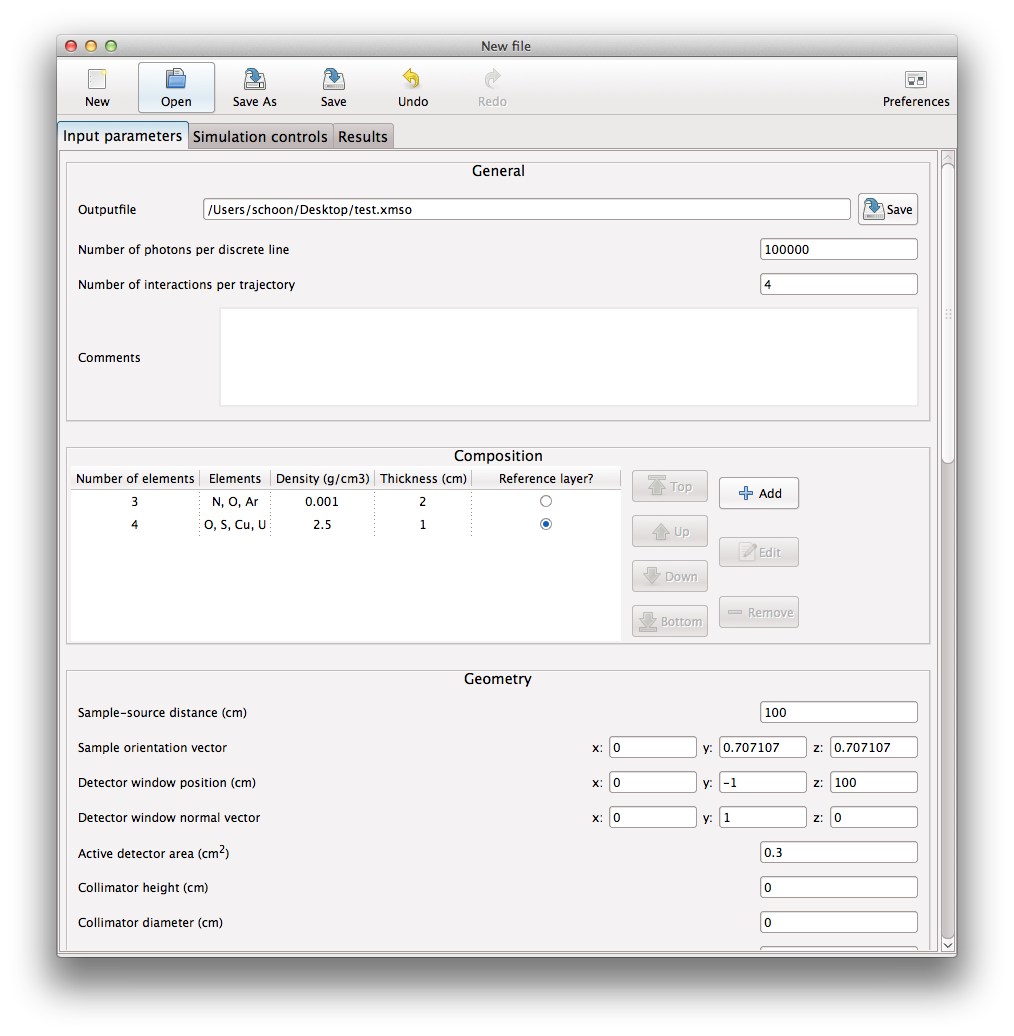
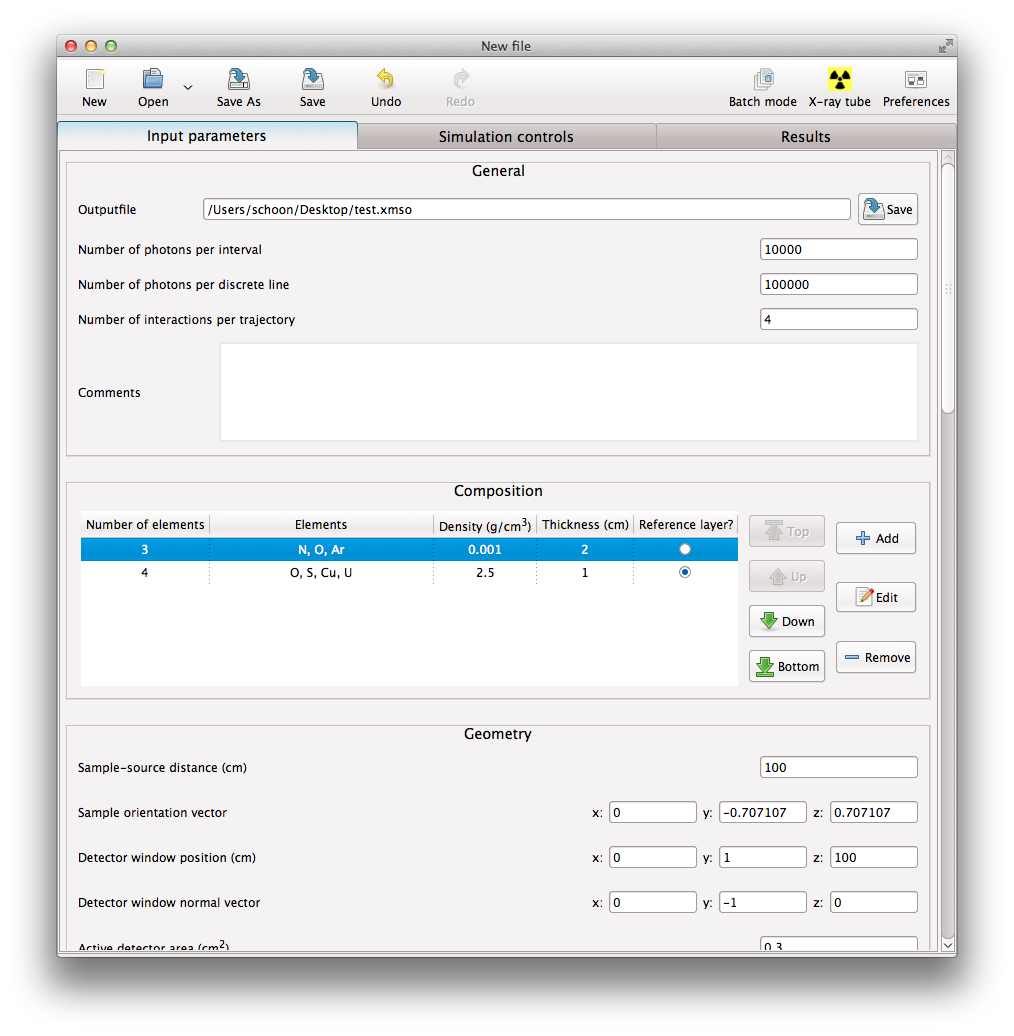
Updating XMI-MSIM manual
todo: batch simulations

diff --git a/xmimsim-manual.tex b/xmimsim-manual.tex
@@ -1,16 +1,16 @@
 \documentclass[11pt,a4paper,oneside,titlepage]{article}
 
 \usepackage[space]{grffile}
-\usepackage[utf8]{inputenc}
+\usepackage[utf8x]{inputenc}
 \usepackage{graphicx}
-
+\usepackage{listings}
 \usepackage{xspace}
 
 
 \usepackage[a4paper,plainpages=false]{hyperref}
 \setlength{\parindent}{0cm}
 
-\title{XMI-MSIM: the definitive manual\\\small{Version 2.0}}
+\title{XMI-MSIM: the definitive manual\\\small{Version 3.0}}
 \author{Tom Schoonjans\\Universit\`a degli Studi di Sassari}
 \begin{document}
 
@@ -32,9 +32,9 @@
 \vspace{1.5cm}
 \huge{\bfseries{The definitive manual\\}}
 \vspace{1.5cm}
-\Large{Version 2.0\\}
+\Large{Version 3.0\\}
 \vspace{1.5cm}
-\textsc{\large{By Tom Schoonjans, PhD\\}}
+\textsc{\large{Tom Schoonjans\\}}
 \vfill
 {\large \today}
 \end{center}

diff --git a/User-guide.md b/User-guide.md
@@ -8,6 +8,7 @@ The following guide assumes that the user has already installed XMI-MSIM, accord
 * **[Starting a simulation](#start)**
 * **[Visualizing the results](#results)**
 * **[Global preferences](#preferences)**
+* **[Advanced features](#advancedfeatures)**
 * **[Checking for updates](#checkforupdates)**
 * **[Example files](#examplefiles)**
 
@@ -19,7 +20,7 @@ For Mac users: assuming you dragged the app into the Applications folder, use Fi
 
 For Windows users: an entry should have been added to the Start menu. Navigate towards it in _Programs_ and click on XMI-MSIM.
 
-For Linux users: an entry should have been added to the Education section of your Start menu. Since this may very considerably depending on the Linux flavour that is being used, this may not be obvious at first. Alternatively, fire up a terminal and type:
+For Linux users: an entry should have been added to the Education section of your Start menu. Since this may very considerably depending on the Linux flavor that is being used, this may not be obvious at first. Alternatively, fire up a terminal and type:
 
 > `xmimsim-gui`
 
@@ -27,7 +28,7 @@ Your desktop should now be embellished with a window resembling the one in the f
 
 ![XMI-MSIM on startup](../wiki/figures/01start-window.png)
 
-XMI-MSIM may also be started on most platforms by double clicking XMI-MSIM input-files and output-files in your platform's file manager, thereby loading the file's contents.
+XMI-MSIM may also be started on most platforms by double clicking XMI-MSIM input-files (.xmsi extension) and output-files (.xmso extenstion) in your platform's file manager, thereby loading the file's contents.
 
 The main view of the XMI-MSIM consists of three pages that each serve a well-defined purpose. The first page is used to generate inputfiles, based on a number of parameters that are defined by the user. The second page allows for the execution of these files, while the third and last page is designed to visualise the results and help in their interpretation. The purpose of the following sections is to provide an in-depth guide on how to operate these pages. 
 
@@ -44,13 +45,15 @@ The first page consists of a number of frames, each designed to manipulate a par
 * [Excitation](#excitation)
 * [Beam and detection absorbers](#absorbers)
 * [Detector settings](#detector)
+* [Import from file](#import)
 
 ### <a id="general"></a>General
 
 The _General_ section contains 4 parameters:
 
 * Outputfile: clicking the _Save_ button will pop up a file chooser dialog, allowing you to select the name of the outputfile that will contain the results of the simulation
-* Number of photons per discrete line: the excitation spectrum as it is used by the simulation is assumed to consist of a number of discrete energies with each a given intensity (see [Excitation](#excitation) for more information). This parameter will determine how many photons are to be simulated per discrete line. The calculation time is directly proportional to this value
+* Number of photons per discrete line: the excitation spectrum as it is used by the simulation may consist of a number of discrete energies with each a given intensity (see [Excitation](#excitation) for more information). This parameter will determine how many photons are to be simulated per discrete line. The calculation time is directly proportional to this value
+* Number of photons per interval: the excitation spectrum as it is used by the simulation may consist of a number of energy intervals defined by the given intensity densities at the beginning and the end of the intervals (see [Excitation](#excitation) for more information). This parameter will determine how many photons are to be simulated per interval. The calculation time is directly proportional to this value
 * Number of interactions per trajectory: this parameter will determine the maximum number of interactions a photon can experience during its trajectory. It is not recommended to set this value to higher than 4, since the contribution of increasingly higher order interactions to the spectrum decreases fast. The calculation time is directly proportional to this value
 * Comments: use this textbox to write down some notes you think are useful.
 
@@ -64,7 +67,7 @@ The different elements that make up the layer are added by clicking on the _Add_
 
 ![Adding a compound](../wiki/figures/04enter-compound.png)
 
-You may wonder at exactly which chemical formulas are accepted by the interface. Well the answer is: anything that is accepted by _xraylib_'s [CompoundParser](https://github.com/tschoonj/xraylib/wiki/The-xraylib-API:-list-of-all-functions#wiki-compound_parser) function. This includes formulas with (nested) brackets such as: `Ca10(PO4)3OH` (apatite). Invalid formulas will lead to the _Ok_ button being greyed out and the _Compound_ text box gaining a red background.
+You may wonder at exactly which chemical formulas are accepted by the interface. Well the answer is: anything that is accepted by _xraylib_'s [CompoundParser](https://github.com/tschoonj/xraylib/wiki/The-xraylib-API-list-of-all-functions#wiki-compoundparser) function. This includes formulas with (nested) brackets such as: `Ca10(PO4)3OH` (apatite). Invalid formulas will lead to the _Ok_ button being greyed out and the _Compound_ text box gaining a red background.
 
 After clicking ok, you should see something resembling the following screenshot:
 
@@ -74,6 +77,8 @@ You will notice that the compound has been parsed and separated into its constit
 In this example I added an additional 50 % of `U3O8` to the composition and picked the values 2.5 g/cm3 and 1 cm for density and thickness, respectively, leading to a weights sum of 100 %. It is considered good practice to have the weights sum equal to 100 %. This can be accomplished by either adding/editing/removing compounds and elements from the list, or by clicking the _Normalize_ button, which will scale **all** weight fractions in order to have their sum equal to 100 %. Your dialog should match with this screenshot:
 
 ![Adding another compound](../wiki/figures/06after-second-compound.png)
+
+Alternatively you may consider looking into the builtin catalog (press _Catalog_): a pop-up window will allow you to select a compound from a list which is generated using xraylib's [GetCompoundDataNISTList](https://github.com/tschoonj/xraylib/wiki/The-xraylib-API-list-of-all-functions#wiki-nistcatalog) function, which provides access to NISTs compound database of compositions and densities. 
 
 When satisfied with the layer characteristics, press _Ok_.
 
@@ -106,7 +111,7 @@ Keep in mind that the number of elements influences the computational time great
 
 Scrolling down a little on the _Input parameters_ page reveals the _Geometry_ section as shown in the next screenshot:
 
-![Geometry, excitation and beam absorbers](../wiki/figures/10geometry-excitation-beam-absorbers.png)
+![Geometry, excitation and beam absorbers](../wiki/figures/10geometry-excitation.png)
 
 This sections covers the position and orientation of the system of layers, detector and slits. In order to fully appreciate the geometry parameters, it is important that I first describe the coordinate system that these position coordinates and directions are connected to:
 
@@ -117,9 +122,9 @@ This sections covers the position and orientation of the system of layers, detec
 
 This is demonstrated in the following figure:
 
-![Schematic representation of the geometry](../wiki/figures/coordinate_system.png)
+![Schematic representation of the geometry](../wiki/figures/27coordinatesystem.png)
 
-Now with this covered, let's have a look at the different _Geometry_ parameters:
+Now with this covered, let us have a look at the different _Geometry_ parameters:
 
 * Sample-source distance: the distance between the source and the _Reference layer_ in the system of layers as defined in the [_Composition section_](#composition)
 * Sample orientation vector: the normal vector that determines the orientation of the stack of layers that define the sample and its environment. The _z_ component must be strictly positive
@@ -131,19 +136,35 @@ Now with this covered, let's have a look at the different _Geometry_ parameters:
 * Source-slits distance: XMI-MSIM defines a set of virtual slits, whose purpose is to define the size of the beam at a given point, based on the distance between these slits and the X-ray source, as well as the _Slits size_, defined by the next parameter. I recommend to have the _Source-slits distance_ correspond to the _Sample-source distance_, since this way the beam, upon hitting the _Reference layer_, will have exactly the dimensions specified by _Slits size_ (if using a point source!)
 * Slits size: see previous parameter. Refers to the dimensions of the beam at the _Source-slits_ distance. This parameter will be ignored when dealing with a Gaussian source (see [Excitation section](#excitation))
 
+In order to visualize these different parameters, click the _Show geometry help_ button: a new window will pop up showing the aforementioned coordinate system. Hovering the mouse over the different components in the new window will have the corresponding widgets light up in green in the main window. This works both ways: hover the mouse over the geometry widgets in the main window and little boxes will appear in the coordinate system window.
+
 ### <a id="excitation"></a>Excitation
 
-Next, there is the _Excitation_ section, which is used to define the X-ray beam that irradiates the sample. The corresponding excitation spectrum is assumed to consist of a number of discrete energies, each with a horizontally and vertically polarized intensity, as well as a number of parameters that define the type and the aperture of the source. At runtime, the code will use the [_Number of photons per discrete line_](#general) parameter to determine how many photons will be simulated per discrete energy. Adding, editing and removing discrete energies is handled through the buttons in the _Excitation_ section. For example, we can change the settings of the default value by clicking the _Edit_ button.
+Next, there is the _Excitation_ section, which is used to define the X-ray beam that irradiates the sample.
+The corresponding excitation spectrum may consist of a number of discrete energies, each with a horizontally and vertically polarized intensity, as well as a number of parameters that define the type and the aperture of the source. Furthermore, one can also insert a number of continuous energy intervals, defined through a list of intensity densities, each with their horizontally and vertically polarized components. In this case, one has two insert at least two intensity densities in order to have at least one interval.
+
+At runtime, the code will use the [_Number of photons per discrete line_](#general) and [_Number of photons per interval_](#general) parameters to determine how many photons will be simulated per discrete energy and continuous energy interval. Adding, editing and removing discrete energies and intervals is handled through the buttons in the _Excitation_ section. For example, we can change the settings of the default value by clicking the _Edit_ button.
 The dialog contains the fields necessary to define a particular energy:
 
 * Energy: the energy of this particular part of the excitation spectrum, expressed in keV
 * Horizontally and vertically polarized intensities: the number of photons that are polarized in the horizontal and vertical planes, respectively. A completely unpolarized beam has identical horizontal and vertical intensities (such as those produced by X-ray tubes), while synchrotron beams will have very, very low vertically polarized intensities. For information on how to convert the total number of photons given the degree of polarization to the horizontal and vertical polarized intenties, consult [Part 5 in our series of papers on Monte-Carlo simulations](../wiki/References-and-additional-resources)
-* Source size _x_ and _y_: If both these values are equal to zero, then the source is assumed to be a point source, and the divergence of the beam is completely determined by the _Source-slits distance_ and _Slits size_ parameters of the [_Geometry_](#geometry) section. Otherwise the source is considered a Gaussian source, in which case the photon starting position is chosen according to Gaussian distributions in the _x_ and _y_ planes, determined by the _Source size x_ and _Source size y_ parameters
-* Source divergence _x_ and _y_: If these values are non-zero, AND the source is Gaussian, then the _Source-slits distance_ takes on a new role as it becomes the distance between the actual focus and the source position. In this way a convergent beam can be defined, emitted by a Gaussian source at the origin. For the specific case of focusing on the sample the _Sample-source distance_ should be set to the _Source-slits distance_.
+* Source size _x_ and _y_: if both these values are equal to zero, then the source is assumed to be a point source, and the divergence of the beam is completely determined by the _Source-slits distance_ and _Slits size_ parameters of the [_Geometry_](#geometry) section. Otherwise the source is considered a Gaussian source, in which case the photon starting position is chosen according to Gaussian distributions in the _x_ and _y_ planes, determined by the _Source size x_ and _Source size y_ parameters
+* Source divergence _x_ and _y_: if these values are non-zero, AND the source is Gaussian, then the _Source-slits distance_ takes on a new role as it becomes the distance between the actual focus and the source position. In this way a convergent beam can be defined, emitted by a Gaussian source at the origin. For the specific case of focusing on the sample the _Sample-source distance_ should be set to the _Source-slits distance_.
+* Energy distribution type: additionally for the discrete energies, it is possible to set the _Energy distribution type_, which may assume the values _Monochromatic_, _Gaussian_ and _Lorentzian_. The first case assumes that the discrete energy is purely monochromatic and that only the selected energy will be used in the simulation. The two other cases corrspond to a scenario in which the simulation will sample from a Gaussian or Lorentzian distribution respectively. If either of these two cases is selected, the user is expected to provide respectively the standard deviation and the scale parameter.
 
 In this particular case, I have changed the energy to 20.0 keV, and made the beam unpolarized by equalizing both intensities, as shown in the following screen shot. The source remains a point source.
 
 ![Modifying the energy](../wiki/figures/11modify-energy.png)
+
+The discrete energies and continuous energies widgets each contain six buttons:
+
+* _Add_: add a new discrete energy or continuous energy intensity density.
+* _Edit_: edit a previously defined discrete energy or continuous energy intensity density.
+* _Remove_: delete a previously defined discrete energy or continuous energy intensity density.
+* _Import_: import a list of discrete energies or continuous energy intensity densities from an ASCII file. These files must consist of either two, three or seven columns, with the first column containing the energies, the second the total intensity (if only two columns are found), or the second and third the resp. horizontally and vertically polarized intensities or intensity densities. If seven columns are encountered, the last four columns are assumed to contain source sizes and divergencies. It is possible through the interface to start reading only at a certain linenumber and also to read only a set number of lines.
+* _Clear_: delete all previously defined discrete energies or continuous energy intensity densities.
+* _Scale_: multiply the intensities or intensity densities with a positive real number.
+
 
 ### <a id="absorbers"></a>Beam and detection absorbers
 
@@ -167,6 +188,12 @@ The last section deals with the settings of the detector and its associated elec
 * Max convolution energy: the maximum energy that will be considered when applying the detector response function. Make sure this value is 10-20 % higher than the highest expected energy in the spectrum
 * Crystal composition: the composition of the detector crystal. Adding, editing and removing absorbers is performed through an interface identical to the one seen in the [Composition section](#composition), but without the _Reference layer_ toggle button. Will be used to calculate the detector transmission and the escape peak ratios
 
+### <a id="import"></a>Import from file
+
+In some cases it may be interesting to import part of the contents of other XMI-MSIM input-files or output-files (which also contain the corresponding input-file) into a new input-file. This can be accomplished by using the _File_ &rarr; _Import_ option in the menubar.
+After choosing a file from the dialog, select the components that you would like to import from the interface. This is demonstrated in the following screenshot
+
+![Import from file](../wiki/figures/25importfromfile.png)
 
 ## <a id="save"></a>Saving an input-file
 
@@ -193,7 +220,7 @@ Either way, the _Simulation controls_ page should look as shown in the following
 
 ### <a id="controlpanel"></a>Control panel
 
-The top of the page contains the actual control panel that is used to start, stop and pause the simulation, as well as a slider that allows the user to select the number of threads that will be used by the simulation (currently broken in version 2.0, will be fixed in 2.1). To the right of the slider, there are three progress bars that indicate different stages of the Monte Carlo program: the calculation of the solid angle grid for the variance reduction, the simulation of the photon--matter interactions and the calculation of the escape peak ratios. More information about the status of the Monte Carlo program is presented in the adjacent log window. Note: the Windows version does not contain the _Pause_ button.
+The top of the page contains the actual control panel that is used to start, stop and pause the simulation, as well as a slider that allows the user to select the number of threads that will be used by the simulation.  To the right of the slider, there are three progress bars that indicate different stages of the Monte Carlo program: the calculation of the solid angle grid for the variance reduction, the simulation of the photon--matter interactions and the calculation of the escape peak ratios. More information about the status of the Monte Carlo program is presented in the adjacent log window. Note: the Windows version does not contain the _Pause_ button.
 
 
 ### <a id="executable"></a>Executable
@@ -204,12 +231,13 @@ Underneath these controls is a section that contains the name of the executable 
 
 This section is followed by a number of options that change the behaviour of the Monte-Carlo program:
 
-* Simulate M-lines: If disabled, then the code will ignore M-lines that may be produced based on the elemental composition of the sample. In such a case, the code will probably run faster. I strongly recommend to simulate M-lines
-* Simulate the radiative and non-radiative cascade effect: the cascade effect is composed of two components, a radiative and a non-radiative one. Although these will always occur simultaneously in reality, the code allows to deactivate one or both of them. This could be interesting to those that want to investigate the contribution of both components. Otherwise, it is recommended to keep both enabled
-* Enable variance reduction techniques: disabling this option will trigger the brute-force mode, disabling all variance reduction techniques, thereby greatly reducing the precision of the estimated spectrum and net-line intensities for a given [_Number of photons per discrete line_](#general). This reduced precision may be improved upon by greatly increasing the _Number of photons per discrete line_, but this will result in a much longer runtime of the Monte-Carlo program. Expert use only. Consider building XMI-MSIM with MPI support and running it on a cluster
-* Enable pulse pile-up simulation: this option activates the simulation of the so-called sum peaks in a spectrum due to the pulse pile-up effect which occurs when more photons are entering the detector than it can process. The magnitude of this effect can controlled through the [_Pulse width_](#detector) parameter
-* Enable Poisson noise generation: enabling this option will result in every channel of the detector convoluted spectrum being subjected to Poisson noise, controlled by Poisson distributions with lambda equal to the number of counts in a channel
-* Number of spectrum channels: the number of channels in the produced spectrum.
+* _Simulate M-lines_: If disabled, then the code will ignore M-lines that may be produced based on the elemental composition of the sample. In such a case, the code will probably run faster. I strongly recommend to simulate M-lines
+* _Simulate the radiative and non-radiative cascade effect_: the cascade effect is composed of two components, a radiative and a non-radiative one. Although these will always occur simultaneously in reality, the code allows to deactivate one or both of them. This could be interesting to those that want to investigate the contribution of both components. Otherwise, it is recommended to keep both enabled
+* _Enable variance reduction techniques_: disabling this option will trigger the brute-force mode, disabling all variance reduction techniques, thereby greatly reducing the precision of the estimated spectrum and net-line intensities for a given [_Number of photons per discrete line_](#general). This reduced precision may be improved upon by greatly increasing the _Number of photons per discrete line_, but this will result in a much longer runtime of the Monte-Carlo program. Expert use only. Consider building XMI-MSIM with MPI support and running it on a cluster
+* _Enable pulse pile-up simulation_: this option activates the simulation of the so-called sum peaks in a spectrum due to the pulse pile-up effect which occurs when more photons are entering the detector than it can process. The magnitude of this effect can controlled through the [_Pulse width_](#detector) parameter
+* _Enable Poisson noise generation_: enabling this option will result in every channel of the detector convoluted spectrum being subjected to Poisson noise, controlled by Poisson distributions with lambda equal to the number of counts in a channel
+* _Enable OpenCL_: this option invokes XMI-MSIMs OpenCL plug-in that, if the platform comes with a videocard chipset that supports it, will use the GPU to perform the solid angle calculation, which could lead to a tremendous speed increase. Keep in mind that when this option is used during the solid angle calculation stage, the screen may have a noticeably lower refresh rate and may lose its responsiveness briefly. This option is only available when an OpenCL framework was found at compile-time.
+* _Number of spectrum channels_: the number of channels in the produced spectrum.
 
 
 ### <a id="exportresults"></a>Export results
@@ -230,6 +258,7 @@ When all required options are set up correctly, the simulation can be started by
 ![Running the simulation](../wiki/figures/14calculating.png)
 
 The first and the third progress bars will in many cases display a message that the Solid angle grid and the Escape peak ratios were loaded from file: this indicates that a simulation with similar parameters was performed before and that the relevant data was written to a file, leading to a huge increase in speed.
+It is possible that some red text appears during a run, particularly with reference to Solid angle and Escape ratio HDF5 files being outdated. This only happens when you are running a new version of XMI-MSIM that introduced a new format for these files: the old files are deleted and new ones will be created and used from then onwards.
 
 After the simulation, assuming everything went fine, the XMSO outputfile as defined in the [General section](#general) will be loaded and its contents displayed on the Results page.
 
@@ -290,13 +319,103 @@ If XMI-MSIM was compiled with support for automatic updates then this page will 
 
 ### <a id="advanced"></a>Advanced
 
-Currently the _Advanced_ page contains only two entries, which both revolve around the deleting of the XMI-MSIM HDF5 files that contain the solid angle grids and the escape peak ratios, respectively. It is recommended to remove these files manually when a complete uninstall of XMI-MSIM is considered necessary (before running the uninstaller or removing the application manually), or if these files somehow got corrupted.
+The first two options revolve around the deleting of the XMI-MSIM HDF5 files that contain the solid angle grids and the escape peak ratios, respectively. It is recommended to remove these files manually when a complete uninstall of XMI-MSIM is considered necessary (before running the uninstaller or removing the application manually), or if these files somehow got corrupted.
+
+The following two options allow the user to import solid angle grids and escape peak ratios from external files into his own. This may be interesting if another user already has a huge collection of these and it may save a lot of time using someone elses.
+In the file dialog only those files will be shown that are valid HDF5 files of the required kind and minimum version.
+
+The last option is _Enable notifications_, which when supported at compile-time and a suitable notifications server is found, will generate messages whenever a calculation finishes. On a Mac OS X native version of XMI-MSIM this will only work on Mountain Lion and newer.
+
+## <a id="advancedfeatures"></a>Advanced features
+
+* [X-ray tube spectrum generator](#ebelgenerator)
+* [Batch simulations](#batchsimulations)
+* [XMI-MSIM file manipulation with XPath and XSLT](#xmimsimfilemanipulation)
+
+In this section, we will describe some more advanced features of XMI-MSIM, which may useful for some users with specific needs.
+
+### <a id="ebelgenerator"></a>X-ray tube spectrum generator
+
+In the [_Excitation_ section](#excitation), we have shown how one can introduce the necessary components of the X-ray excitation spectrum, through a number of discrete energies and intervals of continuous energies.
+In many cases, one will perform X-ray experiments using an X-ray tube generator as source, which corresponds to a combination of discrete part (the anode element specific XRF lines) and a continuous part (the Bremsstrahlung generated through electron-nucleus interactions). Such excitation spectra are typically quite difficult to obtain experimentally and instead one relies quite often on theoretical calculations to obtain (an approximation) of the spectrum. One popular model is the one derived by Horst Ebel in his manuscripts [X-ray Spectrometry 28 (1999), 255-266](http://dx.doi.org/10.1002/(SICI)1097-4539(199907%2F08)28%3A4%3C255%3A%3AAID-XRS347%3E3.0.CO%3B2-Y) and [X-ray Spectrometry 32 (2003), 46-51](http://dx.doi.org/10.1002/xrs.610). This model has been implemented in XMI-MSIM based on the similar feature in PyMca and can be accessed by clicking the X-ray tube button in the menubar (with the radiation warning logo). After clicking, a new window will emerge that looks as:
+
+![Modifying the energy](../wiki/figures/26ebelgenerator.png)
+
+By changing the different parameters to values appropriate for the X-ray tube that the user would like to simulate, one obtains an **approximate** model for the corresponding X-ray tube excitation spectrum. The following parameters can be changed:
+
+* _Tube voltage_: the voltage in kV at which the X-ray tube is supposed to operate. This will determine the extent of the Bremsstrahlung contribution and through this which XRF lines (discrete energies) that will be present in the spectrum.
+* _Tube current_: the current in mA at which the X-ray tube is supposed to operate. The this value is directly proportional to the intensity of the spectrum components.
+* _Tube solid angle_: the solid angle in sr (steradian) under which the beam emerges from the X-ray tube. The default value here is determined by the _Source-slits distance_ and the _Slits size_, taken from the [_Geometry_ section].
+* _Electron incidence angle_ and _X-ray tube take-off angle_: X-ray tube geometry parameters
+* _Interval width_: the width of the continuous energy intervals of Bremsstahlung part of the spectrum. Decreasing this value will lead to a better simulation, but will increase the computational time.
+* _Anode_: the material that the tube anode is made of. The density and the thickness become sensitive when _Transmission tube_ is activated.
+* _Window_ and _Filter_: tube filtration materials. Set the thickness and/or the density to zero to ignore.
+* _Transmission tube_: activating this option effectively places the tube exit-window on the opposite side of the anode with respect to the cathode, thereby operating in transmission mode.
+* _Transmission efficiency file_: it is possible to load a two column ASCII file (first column energies and second column efficiencies between 0 and 1), with at least 10 lines that will be used to multiply the generated intensities and intensity densities with using interpolation of the supplied efficiencies.
+
+After adjusting the required parameters, click _Update spectrum_ to obtain a new excitation spectrum in the plot window. Using _Export spectrum_, it is possible to save the generated spectrum to an ASCII file, while _Save image_ will allow the user to save the plot window to an image file.
+Clicking _About_ will present the user with the links to the Horst Ebel manuscripts.
+Using the _Ok_ button one can close the window while replacing the contents of the _Excitation_ section with the newly generated spectrum.
+
+### <a id="xmimsimfilemanipulation"></a>XMI-MSIM file manipulation with XPath and XSLT
+
+All three XMI-MSIM document types (xmsi, xmso and xmsa) are in fact XML files defined through a document type definition (DTD) file which is included and used in all XMI-MSIM installations. Due to their XML nature, it becomes quite easy to manipulate these files in a number of ways. For example, using an Extensible Stylesheet Language Transformation (XSLT) it becomes possible to extract certain parts of the XML file and convert them to any other type of output. 
+
+XMI-MSIM uses this very technique to perform the conversions from the output-files (xmso) to the spe, html, csv and svg file formats. The stylesheets that are necessary for these operations are included with all installations and may serve the reader as a source of inspiration in developing his own XSL transformations.
+
+The previous section on batch simulations already mentioned the concept of XPath expressions: in combination with an XML processing library such as [libxml2](www.xmlsoft.org), one can read and write parts of as well as entire XML files, which essentially explains the underlying algorithms that XMI-MSIMs batch simulation feature uses. Since advanced users may require a more batch simulation method than what is covered by XMI-MSIM, they may want to have a look at the following simple Perl script which produces the required input-files for a one-dimensional batch simulation, but this can be easily rewritten for far more complex applications.
+
+```perl
+use XML::LibXML;
+use strict;
+use Scalar::Util qw(looks_like_number);
+
+die "Usage: perl xmi-msim-batch.pl XMSI-file XPath-expression start-value end-value number-of-values\n" if (scalar(@ARGV) ne 5);
+
+my $dom = XML::LibXML->load_xml(location => $ARGV[0],
+	load_ext_dtd => 0
+);
+
+my $xpc = XML::LibXML::XPathContext->new($dom);
+my @nodes = $xpc->findnodes($ARGV[1]);
+
+die "Exactly one element should be matched by the XPath expression\n" if (scalar(@nodes) ne 1);
+
+#get outputfile
+my ($outputfileNode) = $xpc->findnodes("//xmimsim/general/outputfile");
+my $outputfile = $outputfileNode->textContent;
+$outputfile =~ s/\.xmso$//;
+
+my $inputfile = $ARGV[0];
+$inputfile =~ s/\.xmsi$//; 
+
+print "outputfile: $outputfile\n";
+
+#check if numeric arguments are ok
+die "last three arguments must be numerical\n" unless(looks_like_number($ARGV[2]));
+die "last three arguments must be numerical\n" unless(looks_like_number($ARGV[3]));
+die "last three arguments must be numerical\n" unless(looks_like_number($ARGV[4]));
+
+my $diff = $ARGV[3] - $ARGV[2];
+
+die "end-value must be greater than start-value\n" if ($diff <= 0.0);
+die "number-of-values must be greater than 0\n" if ($ARGV[4] <= 0.0);
+
+for (my $i = 0 ; $i <= $ARGV[4] ; $i++) {
+	$nodes[0]->removeChildNodes();
+	$nodes[0]->appendText($ARGV[2]+ $i * $diff/$ARGV[4]);
+	$outputfileNode->removeChildNodes();
+	$outputfileNode->appendText("$outputfile"."_".$i.".xmso");
+	$dom->toFile("$inputfile"."_".$i.".xmsi",1);
+}
+```
 
 ## <a id="checkforupdates"></a>Checking for updates
 
 For packages of XMI-MSIM that were compiled with support for automatic updates, checking for new versions will occur by default when launching the program. This can be disabled in the [Preferences window](#updates). If you would like to check explicity, then click on _Help_->_Check for updates..._ for Windows and Linux, and XMI-MSIM->_Check for updates..._ for Mac OS X.
 
 When updates are available, a dialog will pop up, inviting the user to download the package through the interface. When the download is completed, quit XMI-MSIM and install the new version. It is highly recommended to always use the latest version of the interface.
+
 
 ## <a id="examplefiles"></a>Example files
 

diff --git a/Installation-instructions.md b/Installation-instructions.md
@@ -5,25 +5,25 @@
 
 ## <a id="compilefromsource"></a>Compiling from source
 
-XMI-MSIM has been successfully built on Linux (Debian/Ubuntu and RHEL/CentOS/Fedora), Mac OS X (Snow Leopard and up) and Windows 7 (with 32-bit compilers)
+XMI-MSIM has been successfully built on Linux (Debian/Ubuntu and RHEL/CentOS/Fedora), Mac OS X (Snow Leopard and up) and Windows 7 (with 32-bit MinGW and 64-bit MinGW-w64 compilers)
 
 The following dependencies are required to build XMI-MSIM:
 
 * fortran 2003 compiler (gfortran >= 4.4, Intel Fortran are known to work) 
-* C compiler with OpenMP support (gcc highly recommended)
+* C compiler with OpenMP support (gcc highly recommended). The native Mac OS X version requires that the compiler supports Objective-C as well.
 * GNU scientific library (GSL)
 * HDF5
 * libxml2
 * libxslt
 * Fortran GSL bindings (FGSL)
-* xraylib (including Fortran bindings)
+* xraylib 3.0.0+ (including Fortran bindings)
 * glib2
-* GTK2 and GTK-EXTRA (version 3.0.4) for the graphical user interface (optional though highly recommended)
-* optional for the GUI: curl and json-glib
+* GTK2 and GTK-EXTRA (version 3.1.0) for the graphical user interface (optional though highly recommended)
+* optional for the GUI: curl, json-glib and libnotify
 * MPI (OpenMPI or Intel MPI): optional. Recommended for those that want to perform brute-force simulations with a very high number of simulated photons
+* The native Mac OS X build additionally requires gtk-mac-integration
 
-
-All dependencies should be easy to obtain, except for FGSL which is available from the Download section as well. Do not use the [official version](http://www.lrz.de/services/software/mathematik/gsl/fortran) , it will not work when used in combination with XMI-MSIM. [xraylib](http://github.com/tschoonj/xraylib) can be obtained at my repository. Windows users will have to compile most of these dependencies themselves, which will require them to install a bash shell with all basic UNIX utilities. The Windows versions of XMI-MSIM were built using MSYS (bash shell and GNU utilities) and TDM-GCC (compilers).
+All dependencies should be easy to obtain. [xraylib](http://github.com/tschoonj/xraylib) can be obtained at my repository. Windows users will have to compile most of these dependencies themselves, which will require them to install a bash shell with all basic UNIX utilities. The Windows versions of XMI-MSIM were built using MSYS (bash shell and GNU utilities) and TDM-GCC (MinGW compilers).
 
 It is absolutely critical that all Fortran packages are compiled with exactly the same compiler, and this compiler also needs to be used when building XMI-MSIM.
 
@@ -106,6 +106,11 @@ Debian Squeeze:
        deb http://lvserver.ugent.be/apt/debian squeeze stable
        deb-src http://lvserver.ugent.be/apt/debian squeeze stable
 
+Debian Wheezy:
+
+       deb http://lvserver.ugent.be/apt/debian wheezy stable
+       deb-src http://lvserver.ugent.be/apt/debian wheezy stable
+
 Ubuntu Precise 12.04:
 
        deb [arch=amd64] http://lvserver.ugent.be/apt/ubuntu precise stable
@@ -136,9 +141,9 @@ After this, one can install XMI-MSIM by executing the following command:
 
 ## <a id="windowsbinaries"></a>Windows
 
-An installer containing the 32-bit binaries of XMI-MSIM for the Windows platform can be found in the [Downloads](http://lvserver.ugent.be/xmi-msim) section. It will download and install _xraylib_ if necessary.
+Installers containing the 32-bit and 64-bit binaries of XMI-MSIM for the Windows platform can be found in the [Downloads](http://lvserver.ugent.be/xmi-msim) section. It will download and install _xraylib_ if necessary. Although the 32-bit version has been verified to work on Windows XP, we recommend using it on Windows 7 and newer. Version 3.0 is the last release to have support for Windows XP.
 
 ## <a id="macosx"></a>Mac OS X
 
-A [dmg](http://lvserver.ugent.be/xmi-msim) file has been created containing an application bundle which integrates nicely within Mac OS X, through the use of some dedicated API's. The provided app will run on Mac OS X Snow Leopard, Lion and Mountain Lion (all 64-bit only).
+A [dmg](http://lvserver.ugent.be/xmi-msim) file has been created containing an application bundle which integrates nicely within Mac OS X, through the use of some dedicated API's. The provided app will run on Mac OS X Snow Leopard, Lion and Mountain Lion and Mavericks (all 64-bit only).
 After downloading, mount the dmg file and drag the XMI-MSIM app to the Applications folder.
